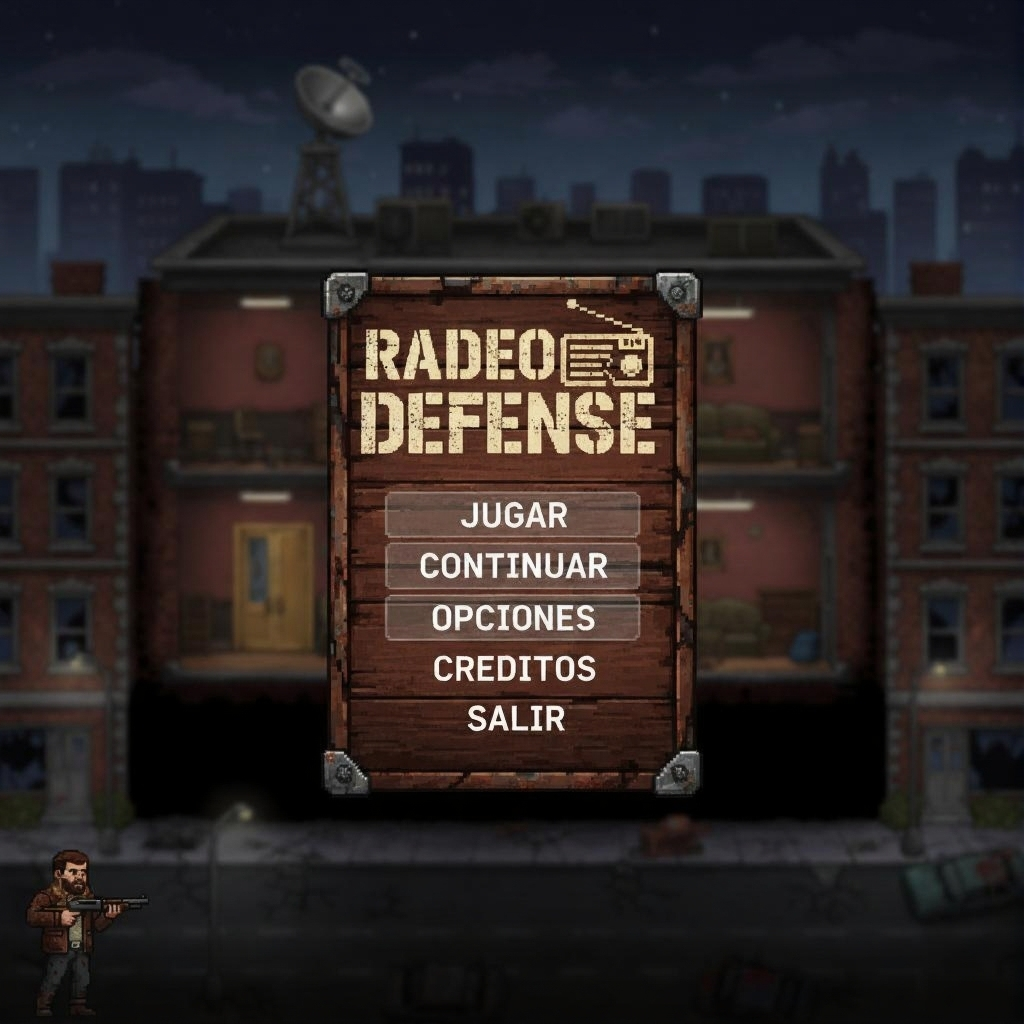
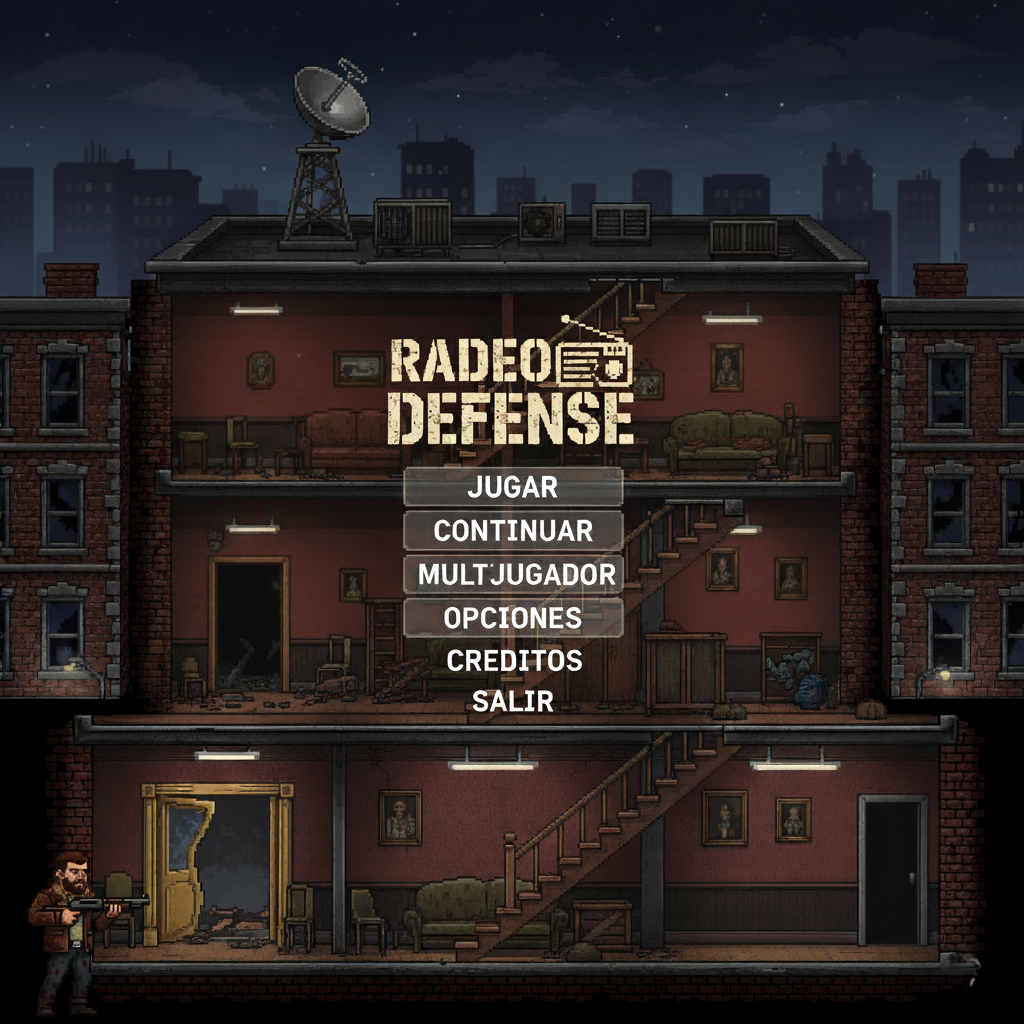
Add extra menu screen structure

diff --git a/lib/screens/extra_menu_screen.dart b/lib/screens/extra_menu_screen.dart
@@ -1,0 +1,86 @@
+import 'package:flame/components.dart';
+import 'package:flame/events.dart';
+import 'package:flame/game.dart';
+import 'package:flutter/material.dart';
+
+class ExtraMenuScreen extends PositionComponent
+    with TapCallbacks, HasGameRef<FlameGame> {
+  final VoidCallback onBackPressed;
+  late SpriteComponent extraMenuBackground;
+
+  ExtraMenuScreen({required this.onBackPressed});
+
+  @override
+  Future<void> onLoad() async {
+    await super.onLoad();
+
+    // Establecer tamaño del componente
+    size = gameRef.size;
+    position = Vector2.zero();
+
+    // Cargar la imagen del menú extra
+    final sprite = await Sprite.load('Menu.png');
+
+    // Calcular tamaño manteniendo aspecto (como video de YouTube)
+    final imageSize = sprite.srcSize;
+    final screenRatio = gameRef.size.x / gameRef.size.y;
+    final imageRatio = imageSize.x / imageSize.y;
+
+    Vector2 displaySize;
+    Vector2 displayPosition;
+
+    if (screenRatio > imageRatio) {
+      // Pantalla más ancha - ajustar a la altura
+      displaySize = Vector2(gameRef.size.y * imageRatio, gameRef.size.y);
+    } else {
+      // Pantalla más alta - ajustar al ancho
+      displaySize = Vector2(gameRef.size.x, gameRef.size.x / imageRatio);
+    }
+
+    // Centrar la imagen
+    displayPosition = Vector2(
+      (gameRef.size.x - displaySize.x) / 2,
+      (gameRef.size.y - displaySize.y) / 2,
+    );
+
+    extraMenuBackground = SpriteComponent(
+      sprite: sprite,
+      size: displaySize,
+      position: displayPosition,
+    );
+
+    add(extraMenuBackground);
+  }
+
+  @override
+  void onTapDown(TapDownEvent event) {
+    // Al hacer clic en cualquier parte del menú extra, volver atrás
+    onBackPressed();
+  }
+
+  @override
+  void onGameResize(Vector2 newSize) {
+    super.onGameResize(newSize);
+    size = newSize;
+
+    if (extraMenuBackground.sprite != null) {
+      final imageSize = extraMenuBackground.sprite!.srcSize;
+      final screenRatio = newSize.x / newSize.y;
+      final imageRatio = imageSize.x / imageSize.y;
+
+      Vector2 displaySize;
+
+      if (screenRatio > imageRatio) {
+        displaySize = Vector2(newSize.y * imageRatio, newSize.y);
+      } else {
+        displaySize = Vector2(newSize.x, newSize.x / imageRatio);
+      }
+
+      extraMenuBackground.size = displaySize;
+      extraMenuBackground.position = Vector2(
+        (newSize.x - displaySize.x) / 2,
+        (newSize.y - displaySize.y) / 2,
+      );
+    }
+  }
+}

diff --git a/lib/menu_game.dart b/lib/menu_game.dart
@@ -4,9 +4,10 @@ import 'screens/menu_screen.dart';
 import 'screens/options_screen.dart';
 import 'screens/credits_screen.dart';
 import 'screens/continue_screen.dart';
+import 'screens/extra_menu_screen.dart';
 import 'screens/game_screen.dart';
 
-enum GameState { menu, options, credits, resume, playing }
+enum GameState { menu, options, credits, resume, extraMenu, playing }
 
 class MenuGame extends FlameGame {
   GameState currentState = GameState.menu;
@@ -15,6 +16,7 @@ class MenuGame extends FlameGame {
   late OptionsScreen optionsScreen;
   late CreditsScreen creditsScreen;
   late ContinueScreen continueScreen;
+  late ExtraMenuScreen extraMenuScreen;
   late GameScreen gameScreen;
 
   @override
@@ -32,7 +34,10 @@ class MenuGame extends FlameGame {
     );
     optionsScreen = OptionsScreen(onBackPressed: showMenu);
     creditsScreen = CreditsScreen(onBackPressed: showMenu);
-    continueScreen = ContinueScreen(onContinuePressed: showGame); // Por ahora va al juego
+    continueScreen = ContinueScreen(
+      onContinuePressed: showGame,
+    ); // Por ahora va al juego
+    extraMenuScreen = ExtraMenuScreen(onBackPressed: showMenu);
     gameScreen = GameScreen();
 
     // Cargar la pantalla de menú
@@ -63,6 +68,12 @@ class MenuGame extends FlameGame {
     add(continueScreen);
   }
 
+  void showExtraMenu() {
+    remove(menuScreen);
+    currentState = GameState.extraMenu;
+    add(extraMenuScreen);
+  }
+
   void showMenu() {
     // Remover la pantalla actual y volver al menú
     if (currentState == GameState.options) {
@@ -71,6 +82,8 @@ class MenuGame extends FlameGame {
       remove(creditsScreen);
     } else if (currentState == GameState.resume) {
       remove(continueScreen);
+    } else if (currentState == GameState.extraMenu) {
+      remove(extraMenuScreen);
     }
     currentState = GameState.menu;
     add(menuScreen);
